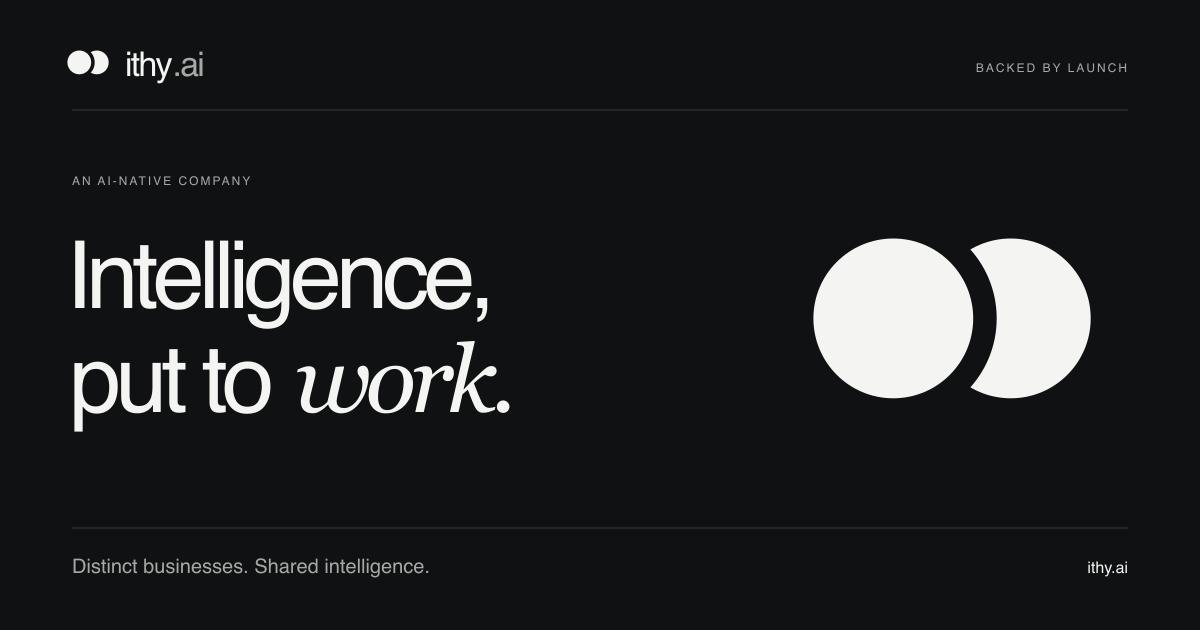
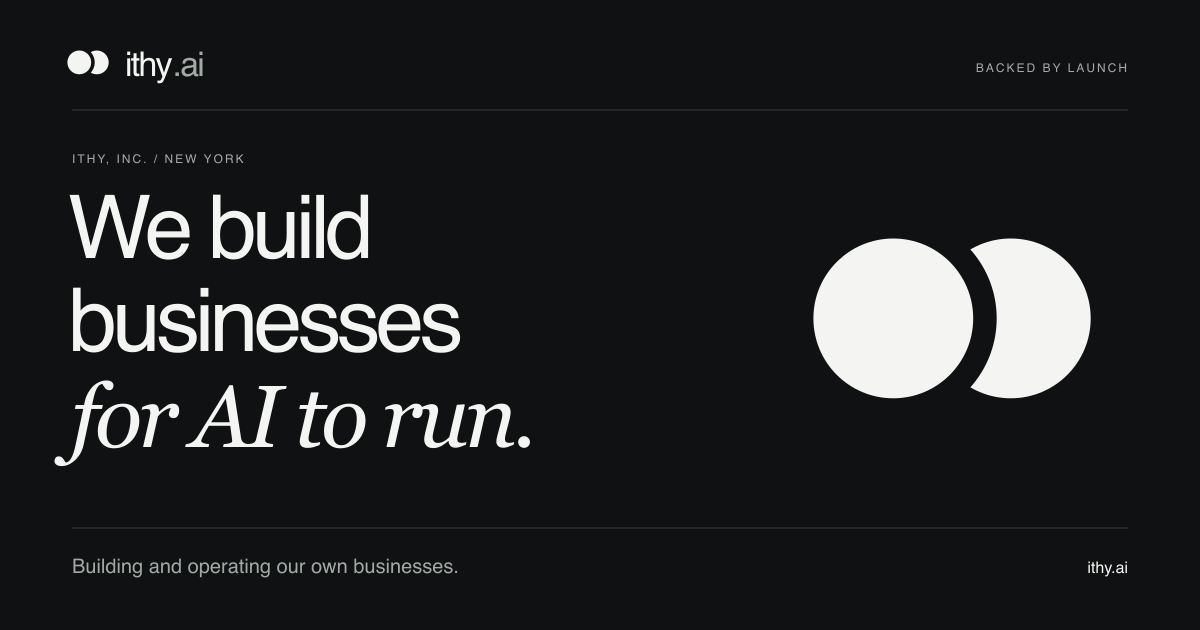
Explain Ithy as businesses built for AI to operate

Changed region(s): [[0.0617, 0.2413, 0.4625, 0.7238], [0.0617, 0.8746, 0.37, 0.9349], [0.0308, 0.7238, 0.0617, 0.754]]

diff --git a/index.html b/index.html
@@ -4,23 +4,23 @@
   <meta charset="utf-8">
   <meta name="viewport" content="width=device-width, initial-scale=1">
   <meta name="theme-color" content="#f4f4f2">
-  <title>Ithy.ai — Intelligence, put to work.</title>
-  <meta name="description" content="An AI-native company building focused businesses for real problems. Backed by LAUNCH, the venture firm founded by Jason Calacanis.">
+  <title>Ithy.ai — We build businesses for AI to run.</title>
+  <meta name="description" content="Ithy builds and owns businesses designed for AI to handle the daily operation. Backed by LAUNCH, the venture firm founded by Jason Calacanis.">
   <link rel="canonical" href="https://ithy.ai/">
   <meta property="og:type" content="website">
   <meta property="og:url" content="https://ithy.ai/">
   <meta property="og:site_name" content="Ithy.ai">
-  <meta property="og:title" content="Ithy.ai — Intelligence, put to work.">
-  <meta property="og:description" content="Distinct businesses. Shared intelligence. Backed by LAUNCH, founded by Jason Calacanis.">
-  <meta property="og:image" content="https://ithy.ai/social-card.png?v=20261025">
+  <meta property="og:title" content="Ithy.ai — We build businesses for AI to run.">
+  <meta property="og:description" content="Building the whole operation around AI, from finding customers to delivering the product. Backed by Jason Calacanis’s LAUNCH.">
+  <meta property="og:image" content="https://ithy.ai/social-card.png?v=20261030">
   <meta property="og:image:width" content="1200">
   <meta property="og:image:height" content="630">
-  <meta property="og:image:alt" content="Ithy.ai. Intelligence, put to work. Backed by LAUNCH. Distinct businesses. Shared intelligence.">
+  <meta property="og:image:alt" content="Ithy.ai. We build businesses for AI to run. Backed by LAUNCH.">
   <meta name="twitter:card" content="summary_large_image">
-  <meta name="twitter:title" content="Ithy.ai — Intelligence, put to work.">
-  <meta name="twitter:description" content="Distinct businesses. Shared intelligence. Backed by LAUNCH, founded by Jason Calacanis.">
-  <meta name="twitter:image" content="https://ithy.ai/social-card.png?v=20261025">
-  <meta name="twitter:image:alt" content="Ithy.ai. Intelligence, put to work. Backed by LAUNCH.">
+  <meta name="twitter:title" content="Ithy.ai — We build businesses for AI to run.">
+  <meta name="twitter:description" content="Building the whole operation around AI, from finding customers to delivering the product. Backed by Jason Calacanis’s LAUNCH.">
+  <meta name="twitter:image" content="https://ithy.ai/social-card.png?v=20261030">
+  <meta name="twitter:image:alt" content="Ithy.ai. We build businesses for AI to run. Backed by LAUNCH.">
   <meta name="application-name" content="Ithy.ai">
   <link rel="icon" href="favicon.ico?v=20261026" sizes="16x16 32x32 48x48">
   <link rel="icon" href="favicon-32x32.png?v=20261026" type="image/png" sizes="32x32">
@@ -87,7 +87,6 @@
     .text-link { display: inline-flex; align-items: center; min-height: 44px; gap: 12px; font-size: 13px; }
     .text-link span { border-bottom: 1px solid var(--line); padding-bottom: 3px; }
     .text-link:hover span { border-color: var(--ink); }
-    .hero-note { font: 10px/1.6 var(--mono); letter-spacing: .025em; color: var(--muted); margin: 29px 0 0; }
     .system { margin: 0; position: relative; padding-top: 5px; }
     .system-drawing { width: 100%; height: auto; overflow: visible; }
     .diagram-label { font: 10px var(--mono); fill: var(--muted); letter-spacing: .1em; }
@@ -117,14 +116,6 @@
     .model h2 { font-size: clamp(38px, 4vw, 57px); font-weight: 430; line-height: 1.1; letter-spacing: -.055em; margin: 0; }
     .model h2 em { font-family: var(--serif); color: var(--highlight); font-weight: 400; }
     .model-description { max-width: 440px; margin: 0 0 4px; color: #c3c7c5; font-size: 16px; line-height: 1.85; }
-    .operating-cycle { display: grid; grid-template-columns: repeat(4, 1fr); margin-top: 59px; border-top: 1px solid #414644; border-bottom: 1px solid #414644; }
-    .cycle-step { position: relative; padding: 26px 18px 27px 0; }
-    .cycle-step:not(:first-child) { padding-left: 26px; border-left: 1px solid #414644; }
-    .cycle-step small { display: block; color: #a2a7a4; font: 9px/1.5 var(--mono); letter-spacing: .08em; margin-bottom: 14px; }
-    .cycle-step strong { display: block; font-size: 19px; font-weight: 450; letter-spacing: -.025em; }
-    .cycle-step .step-arrow { position: absolute; right: 23px; top: 58px; width: 16px; height: 16px; color: var(--highlight); }
-    .model-foot { display: flex; justify-content: space-between; gap: 20px; color: #aeb3b0; font: 10px/1.8 var(--mono); margin-top: 21px; }
-    .model-foot span:last-child { color: var(--highlight); }
     .companies { padding-block: 78px 86px; }
     .companies-heading { display: grid; grid-template-columns: 1fr 2.15fr; gap: 60px; margin-bottom: 33px; }
     .companies h2 { font-size: clamp(32px, 3.5vw, 46px); font-weight: 450; line-height: 1.2; letter-spacing: -.045em; margin: 0; }
@@ -191,7 +182,6 @@
       h1 { font-size: clamp(66px, 12.1vw, 88px); margin-top: 28px; max-width: 650px; }
       .hero-description { max-width: 440px; font-size: 16px; }
       .hero-actions { gap: 25px; flex-wrap: wrap; margin-top: 28px; }
-      .hero-note { margin-top: 23px; }
       .system { width: min(490px, 100%); justify-self: center; margin-top: -3px; }
       .system figcaption { font-size: 8px; margin-inline: 8px; }
       .thesis { grid-template-columns: 1fr; gap: 26px; padding-block: 40px 53px; }
@@ -207,13 +197,6 @@
       .model .eyebrow { margin-bottom: 26px; }
       .model h2 { font-size: 43px; }
       .model-description { font-size: 15px; max-width: 520px; }
-      .operating-cycle { margin-top: 35px; }
-      .cycle-step { padding-block: 21px; }
-      .cycle-step:not(:first-child) { padding-left: 16px; }
-      .cycle-step strong { font-size: 15px; }
-      .cycle-step small { font-size: 8px; }
-      .cycle-step .step-arrow { display: none; }
-      .model-foot { font-size: 8px; gap: 12px; }
       .companies { padding-block: 47px 49px; }
       .companies-heading { grid-template-columns: 1fr; gap: 24px; margin-bottom: 28px; }
       .companies h2 { font-size: 35px; }
@@ -245,10 +228,6 @@
       .principle h3 { margin-bottom: 8px; font-size: 15px; }
       .principle p { font-size: 13px; }
       .model h2 { font-size: 39px; }
-      .operating-cycle { grid-template-columns: repeat(2, 1fr); }
-      .cycle-step:nth-child(odd) { padding-left: 0; border-left: 0; }
-      .cycle-step:nth-child(n+3) { border-top: 1px solid #414644; }
-      .model-foot { flex-direction: column; gap: 5px; }
       .contact h2 { font-size: 44px; }
       .footer-legal { gap: 12px; }
       .footer-note { font-size: 8px; }
@@ -266,7 +245,7 @@
     }
   </style>
   <script type="application/ld+json">
-    {"@context":"https://schema.org","@type":"Organization","name":"Ithy","alternateName":"Ithy.ai","legalName":"Ithy, Inc.","url":"https://ithy.ai/","logo":"https://ithy.ai/icon-512.png?v=20261026","description":"A family of focused businesses, with AI at the core of the product and the operation.","email":"wluk@ithy.ai","sameAs":["https://ithy.com/"]}
+    {"@context":"https://schema.org","@type":"Organization","name":"Ithy","alternateName":"Ithy.ai","legalName":"Ithy, Inc.","url":"https://ithy.ai/","logo":"https://ithy.ai/icon-512.png?v=20261026","description":"Ithy builds and owns businesses designed for AI to handle the daily operation.","email":"wluk@ithy.ai","sameAs":["https://ithy.com/"]}
   </script>
 </head>
 <body id="top">
@@ -277,9 +256,9 @@
       <span class="wordmark">ithy<span>.ai</span></span>
     </a>
     <nav class="nav" aria-label="Main navigation">
-      <a class="nav-approach" href="#approach">Our approach</a>
-      <a class="nav-companies" href="#companies"><span class="desktop-label">Our businesses</span><span class="mobile-label">Work</span></a>
-      <a class="nav-contact" href="#contact"><span class="desktop-label">Get in touch</span><span class="mobile-label">Contact</span> <svg class="arrow" viewBox="0 0 24 24" fill="none" stroke="currentColor" stroke-width="1.5" aria-hidden="true"><path d="M5 19 19 5M5 5h14v14"/></svg></a>
+      <a class="nav-approach" href="#approach">How we work</a>
+      <a class="nav-companies" href="#companies"><span class="desktop-label">Our work</span><span class="mobile-label">Work</span></a>
+      <a class="nav-contact" href="#contact"><span>Contact</span> <svg class="arrow" viewBox="0 0 24 24" fill="none" stroke="currentColor" stroke-width="1.5" aria-hidden="true"><path d="M5 19 19 5M5 5h14v14"/></svg></a>
     </nav>
   </header>
 
@@ -294,19 +273,18 @@
   <main id="main">
     <section class="hero wrap" aria-labelledby="hero-title">
       <div class="hero-copy">
-        <p class="eyebrow">An AI-native company</p>
-        <h1 id="hero-title"><span>Intelligence,</span><span>put to <em>work.</em></span></h1>
-        <p class="hero-description">We’re building a family of focused businesses, with AI woven into the product and the operation. Each begins with a real need. Every useful lesson strengthens what comes next.</p>
+        <p class="eyebrow">Ithy, Inc. · New York</p>
+        <h1 id="hero-title"><span>We build</span><span>businesses</span><span><em>for AI to run.</em></span></h1>
+        <p class="hero-description">We’re building companies where AI can develop the product, find customers, deliver what they bought, and handle the day-to-day work. People set the direction and take responsibility.</p>
         <div class="hero-actions">
-          <a class="button" href="mailto:wluk@ithy.ai?subject=Let%E2%80%99s%20talk%20about%20Ithy">Start a conversation <svg class="arrow" viewBox="0 0 24 24" fill="none" stroke="currentColor" stroke-width="1.5" aria-hidden="true"><path d="M5 19 19 5M5 5h14v14"/></svg></a>
-          <a class="text-link" href="#approach"><span>The approach</span><svg class="arrow" viewBox="0 0 24 24" fill="none" stroke="currentColor" stroke-width="1.5" aria-hidden="true"><path d="M12 4v16m-6-6 6 6 6-6"/></svg></a>
+          <a class="button" href="mailto:wluk@ithy.ai?subject=About%20Ithy">Email Winson <svg class="arrow" viewBox="0 0 24 24" fill="none" stroke="currentColor" stroke-width="1.5" aria-hidden="true"><path d="M5 19 19 5M5 5h14v14"/></svg></a>
+          <a class="text-link" href="#approach"><span>How we work</span><svg class="arrow" viewBox="0 0 24 24" fill="none" stroke="currentColor" stroke-width="1.5" aria-hidden="true"><path d="M12 4v16m-6-6 6 6 6-6"/></svg></a>
         </div>
-        <p class="hero-note">Founder-led. Built in New York.</p>
       </div>
       <figure class="system">
         <svg class="system-drawing" viewBox="0 0 560 530" role="img" aria-labelledby="system-title system-description">
-          <title id="system-title">One foundation. Independent businesses.</title>
-          <desc id="system-description">A conceptual diagram of Ithy’s operating model: one shared AI foundation connecting distinct brands. Abstract shapes illustrate the structure, not specific projects.</desc>
+          <title id="system-title">Ithy’s planned business structure</title>
+          <desc id="system-description">Ithy provides shared software and operations to businesses with their own brands and customers.</desc>
           <defs>
             <pattern id="dots" x="0" y="0" width="22" height="22" patternUnits="userSpaceOnUse"><circle cx="1" cy="1" r=".7" fill="#d0d4d0"/></pattern>
             <path id="left-route" d="M255 281v40q0 18-18 18H109q-18 0-18 18v31"/>
@@ -334,7 +312,7 @@
           </g>
           <text class="diagram-brand" x="219" y="228">ithy</text>
           <path d="M219 245h105" stroke="#626a64" stroke-width=".7"/>
-          <text x="220" y="260" font-family="monospace" font-size="7.5" fill="#c5cbc5" letter-spacing="1.2">SHARED INTELLIGENCE</text>
+          <text x="220" y="260" font-family="monospace" font-size="7.5" fill="#c5cbc5" letter-spacing="1.2">SHARED OPERATIONS</text>
           <path d="M345 177h49" class="diagram-wire"/>
           <circle cx="394" cy="177" r="2" fill="#303438"/>
           <text x="404" y="173" class="diagram-small">HUMAN DIRECTION</text>
@@ -348,33 +326,33 @@
           <path d="m469 403 20 21-20 21-20-21z" fill="#303438"/>
           <path d="M469 411v26m-13-13h26" stroke="#f4f4f2" stroke-width="2"/>
           <rect x="208" y="470" width="144" height="22" fill="#f4f4f2"/>
-          <text x="280" y="484" text-anchor="middle" class="diagram-small">DISTINCT BUSINESSES</text>
+          <text x="280" y="484" text-anchor="middle" class="diagram-small">SEPARATE BRANDS</text>
           <path d="M19 42V28h14m494 0h14v14M19 482v14h14m494 0h14v-14" fill="none" stroke="#939c95"/>
         </svg>
-        <figcaption><span>Independent brands</span><span>Connected by design ↗</span></figcaption>
+        <figcaption><span>Our businesses</span><span>Built and run by Ithy</span></figcaption>
       </figure>
     </section>
 
     <section class="thesis wrap" id="approach" aria-labelledby="approach-title">
-      <div class="section-index"><span class="number">01 /</span><span>The thesis</span></div>
+      <div class="section-index"><span class="number">01 /</span><span>How we work</span></div>
       <div>
-        <h2 id="approach-title">AI changes what a small company can do.</h2>
-        <p class="lead">Our thesis is simple: AI can change both the products people buy and the way a business runs. We start with a problem worth solving, build a complete experience, and design the operation around it.</p>
+        <h2 id="approach-title">The whole business is the project.</h2>
+        <p class="lead">A business has to win customers, deliver reliably, and earn its next sale. We study that full job before choosing what to build, including the work that usually ends up on the founder’s desk.</p>
         <div class="principles">
           <article class="principle">
             <svg class="principle-icon" viewBox="0 0 24 24" fill="none" stroke="currentColor" stroke-width="1.3" aria-hidden="true"><circle cx="12" cy="12" r="8.5"/><circle cx="12" cy="12" r="3"/><path d="M12 0v4m0 16v4M0 12h4m16 0h4"/></svg>
-            <h3>Outcomes first.</h3>
-            <p>A useful result and a reason to choose it. That’s where every business begins.</p>
+            <h3>Find something worth buying</h3>
+            <p>We look for things people want that were too expensive, too slow, or too difficult to deliver before.</p>
           </article>
           <article class="principle">
             <svg class="principle-icon" viewBox="0 0 24 24" fill="none" stroke="currentColor" stroke-width="1.3" aria-hidden="true"><path d="M3 5h18M3 12h18M3 19h18"/><rect x="6" y="2" width="4" height="6" fill="#f4f4f2"/><rect x="15" y="9" width="4" height="6" fill="#f4f4f2"/><rect x="8" y="16" width="4" height="6" fill="#f4f4f2"/></svg>
-            <h3>Automation throughout.</h3>
-            <p>Agents across development, customer acquisition, delivery, and support. People set direction and make consequential decisions.</p>
+            <h3>Make it work end to end</h3>
+            <p>Finding customers and keeping them takes as much thought as making the product. We build for the full job.</p>
           </article>
           <article class="principle">
             <svg class="principle-icon" viewBox="0 0 24 24" fill="none" stroke="currentColor" stroke-width="1.3" aria-hidden="true"><path d="M4 9a8 8 0 0 1 14-3l2 2m0-5v5h-5M20 15a8 8 0 0 1-14 3l-2-2m0 5v-5h5"/></svg>
-            <h3>Learning that travels.</h3>
-            <p>Reusable systems and better methods, carried forward from one business to the next.</p>
+            <h3>Keep the team small</h3>
+            <p>The aim is to serve more customers without needing a department for every new problem. Better software should carry more of the work.</p>
           </article>
         </div>
       </div>
@@ -384,44 +362,37 @@
       <div class="wrap">
         <div class="model-grid">
           <div>
-            <p class="eyebrow">The operating model</p>
-            <h2 id="model-title">Distinct businesses.<br><em>Shared intelligence.</em></h2>
+            <p class="eyebrow">One company behind the businesses</p>
+            <h2 id="model-title">The next business<br><em>starts further ahead.</em></h2>
           </div>
-          <p class="model-description">Each business has its own brand, customers, and promise. Ithy provides a common foundation for building and operating them—with automation designed in from the beginning.</p>
+          <p class="model-description">Ithy builds and owns the businesses. Each has its own name and customers, while we reuse the code, tools, and ways of working underneath. What we learn from one should make the next easier to build and run.</p>
         </div>
-        <div class="operating-cycle" aria-label="Our working cycle">
-          <div class="cycle-step"><small>01 / FIND THE NEED</small><strong>Discover</strong><svg class="step-arrow" viewBox="0 0 24 24" fill="none" stroke="currentColor" stroke-width="1.5" aria-hidden="true"><path d="M4 12h16m-6-6 6 6-6 6"/></svg></div>
-          <div class="cycle-step"><small>02 / MAKE IT USEFUL</small><strong>Build</strong><svg class="step-arrow" viewBox="0 0 24 24" fill="none" stroke="currentColor" stroke-width="1.5" aria-hidden="true"><path d="M4 12h16m-6-6 6 6-6 6"/></svg></div>
-          <div class="cycle-step"><small>03 / DELIVER THE RESULT</small><strong>Operate</strong><svg class="step-arrow" viewBox="0 0 24 24" fill="none" stroke="currentColor" stroke-width="1.5" aria-hidden="true"><path d="M4 12h16m-6-6 6 6-6 6"/></svg></div>
-          <div class="cycle-step"><small>04 / PUT LEARNING TO WORK</small><strong>Improve</strong><svg class="step-arrow" viewBox="0 0 24 24" fill="none" stroke="currentColor" stroke-width="1.5" aria-hidden="true"><path d="M4 12h16m-6-6 6 6-6 6"/></svg></div>
-        </div>
-        <div class="model-foot"><span>Built to learn from real use.</span><span>One company. Room for many possibilities.</span></div>
       </div>
     </section>
 
     <section class="companies wrap" id="companies" aria-labelledby="companies-title">
       <div class="companies-heading">
-        <div class="section-index"><span class="number">02 /</span><span>Selected work</span></div>
-        <h2 id="companies-title">Already out<br>in the world.</h2>
+        <div class="section-index"><span class="number">02 /</span><span>In operation</span></div>
+        <h2 id="companies-title">Our first business.</h2>
       </div>
       <a class="company-row" href="https://ithy.com/" target="_blank" rel="noopener noreferrer" aria-label="Explore ithy.com, opens in a new tab">
         <span class="company-mark"><img src="assets/ithy-product.svg?v=20261024d" alt="" width="60" height="60" loading="lazy"></span>
-        <span class="company-identity"><span class="company-name">ithy<span>.com</span></span><span class="company-description">AI search and research. Multiple perspectives, brought together.</span></span>
-        <span class="company-context">Explore the business</span>
+        <span class="company-identity"><span class="company-name">ithy<span>.com</span></span><span class="company-description">AI search and research, with sources you can follow.</span></span>
+        <span class="company-context">Visit ithy.com</span>
         <span class="company-arrow"><svg class="arrow" viewBox="0 0 24 24" fill="none" stroke="currentColor" stroke-width="1.5" aria-hidden="true"><path d="M5 19 19 5M5 5h14v14"/></svg></span>
       </a>
-      <div class="private-work"><span class="private-label">More taking shape</span><p>The next businesses begin with careful research. We share them when they’re ready.</p></div>
+      <div class="private-work"><span class="private-label">In development</span><p>We’ll share the other businesses when they’re ready.</p></div>
     </section>
 
     <section class="contact" id="contact" aria-labelledby="contact-title">
       <div class="contact-grid wrap">
         <div>
-          <p class="eyebrow">For the long view</p>
-          <h2 id="contact-title">A new way to build.<br><em>A lot to explore.</em></h2>
+          <p class="eyebrow">Contact</p>
+          <h2 id="contact-title">Talk to<br><em>the founder.</em></h2>
         </div>
         <div class="contact-copy">
-          <p>We’re open to conversations with investors and people building for the long term. If this way of thinking resonates, we’d like to hear from you.</p>
-          <a class="button" href="mailto:wluk@ithy.ai?subject=Let%E2%80%99s%20talk%20about%20Ithy">Let’s talk <svg class="arrow" viewBox="0 0 24 24" fill="none" stroke="currentColor" stroke-width="1.5" aria-hidden="true"><path d="M5 19 19 5M5 5h14v14"/></svg></a>
+          <p>Most of our work isn’t public yet. If you’d like to know more about Ithy, write to Winson.</p>
+          <a class="button" href="mailto:wluk@ithy.ai?subject=About%20Ithy">Email Winson <svg class="arrow" viewBox="0 0 24 24" fill="none" stroke="currentColor" stroke-width="1.5" aria-hidden="true"><path d="M5 19 19 5M5 5h14v14"/></svg></a>
           <div class="contact-tools">
             <a class="contact-email" href="mailto:wluk@ithy.ai">wluk@ithy.ai</a>
             <button class="copy-email" type="button" id="copy-email" hidden>Copy email</button>
